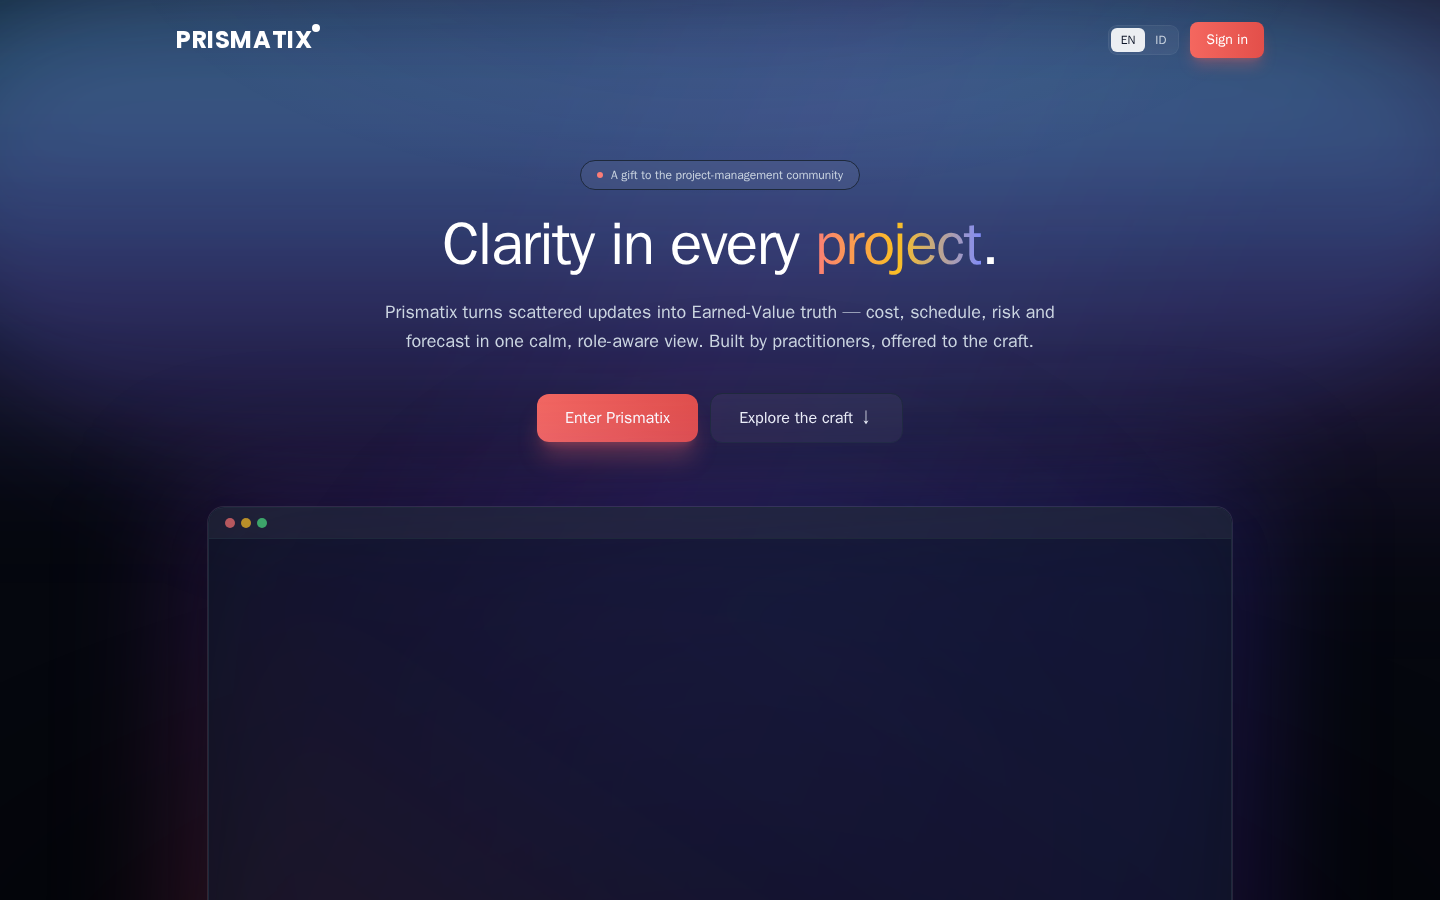
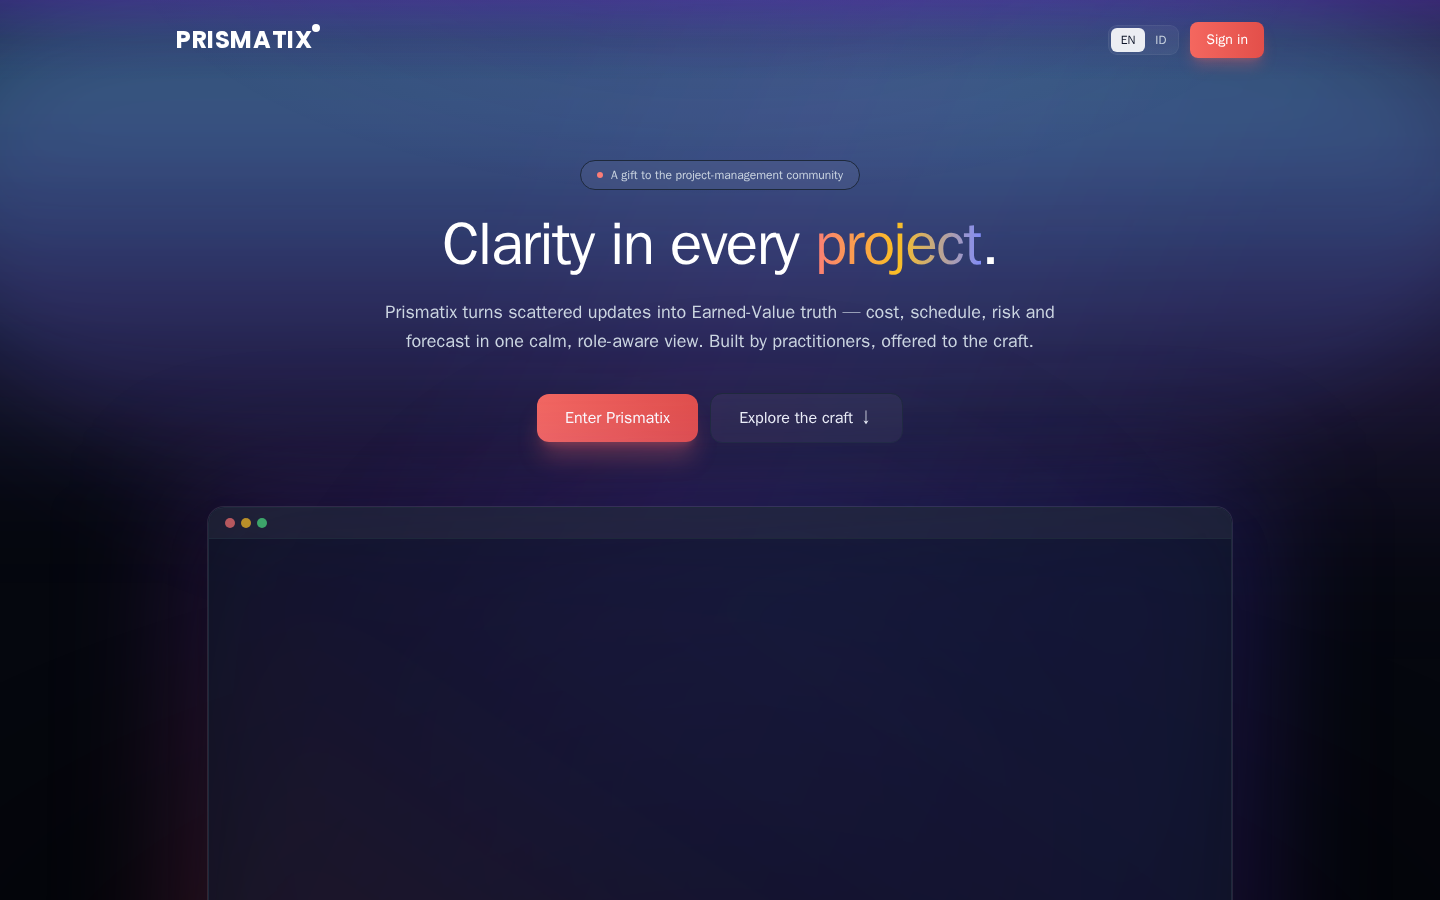
style(web): purple-gradient top header; transparent (not black) on scroll
- Add a violet gradient wash across the top of the landing header.
- On scroll the bar is now a translucent purple with backdrop-blur instead of a
  near-solid black fill, so the hero shows softly through it.
- README hero screenshot refreshed.

Changed region(s): [[0.0, 0.0, 1.0, 0.0311]]

diff --git a/client/src/pages/HomePage.tsx b/client/src/pages/HomePage.tsx
@@ -336,7 +336,10 @@ export default function HomePage() {
       </div>
 
       {/* ---------- top nav ---------- */}
-      <header className={`fixed inset-x-0 top-0 z-30 transition-colors duration-300 ${scrolled ? 'border-b border-white/10 bg-[#05070e]/80 backdrop-blur-xl' : ''}`}>
+      {/* On scroll the bar becomes a translucent purple (blurred) instead of solid black. */}
+      <header className={`fixed inset-x-0 top-0 z-30 transition-all duration-300 ${scrolled ? 'border-b border-white/10 backdrop-blur-xl' : ''}`}>
+        {/* purple gradient wash across the top header */}
+        <div className={`pointer-events-none absolute inset-0 -z-10 bg-gradient-to-b from-violet-700/40 via-violet-900/15 to-transparent transition-opacity duration-300 ${scrolled ? 'opacity-100' : 'opacity-75'}`} />
         <div className="mx-auto flex h-20 max-w-6xl items-center justify-between px-5 sm:px-8">
           <Wordmark bare />
           <div className="flex items-center gap-2 sm:gap-3">